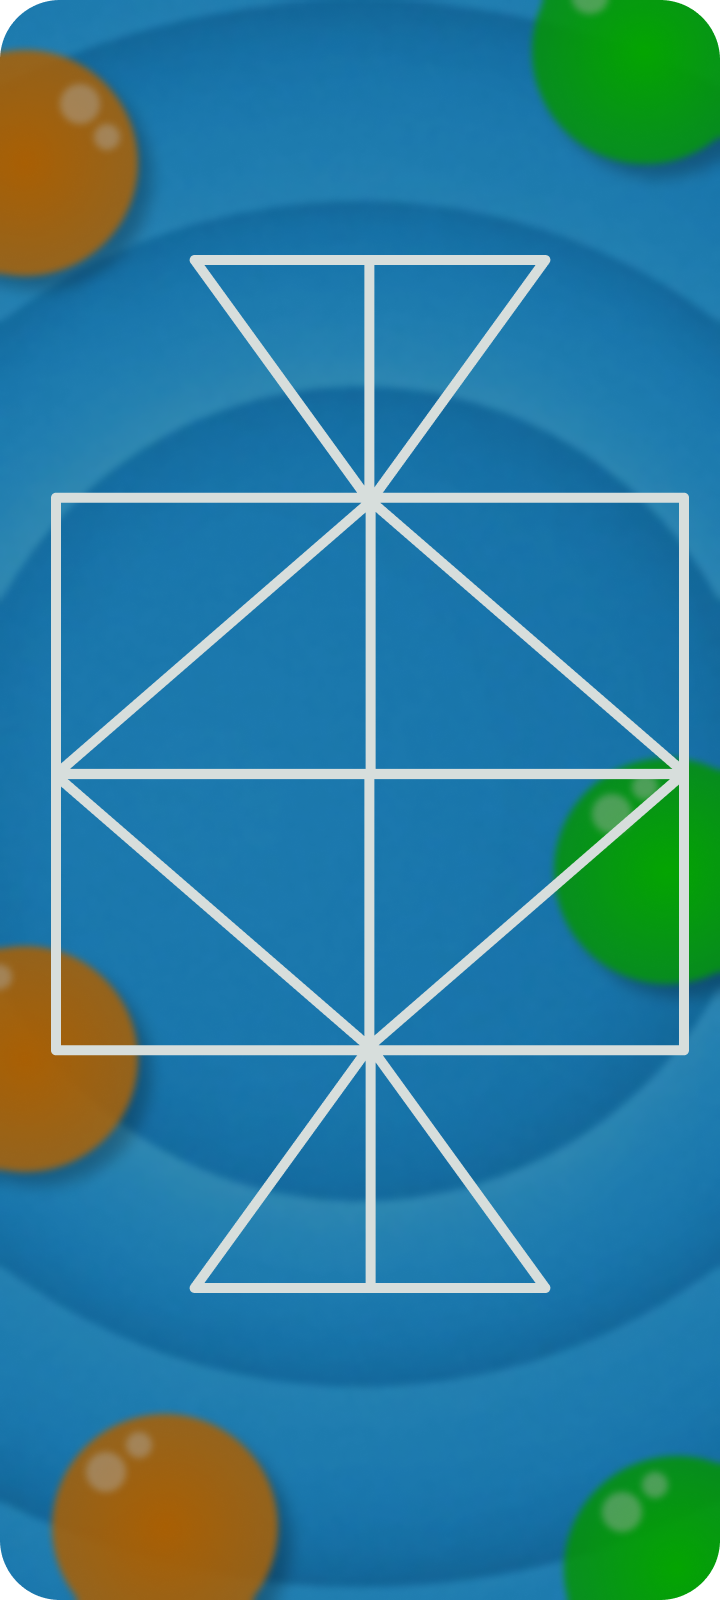
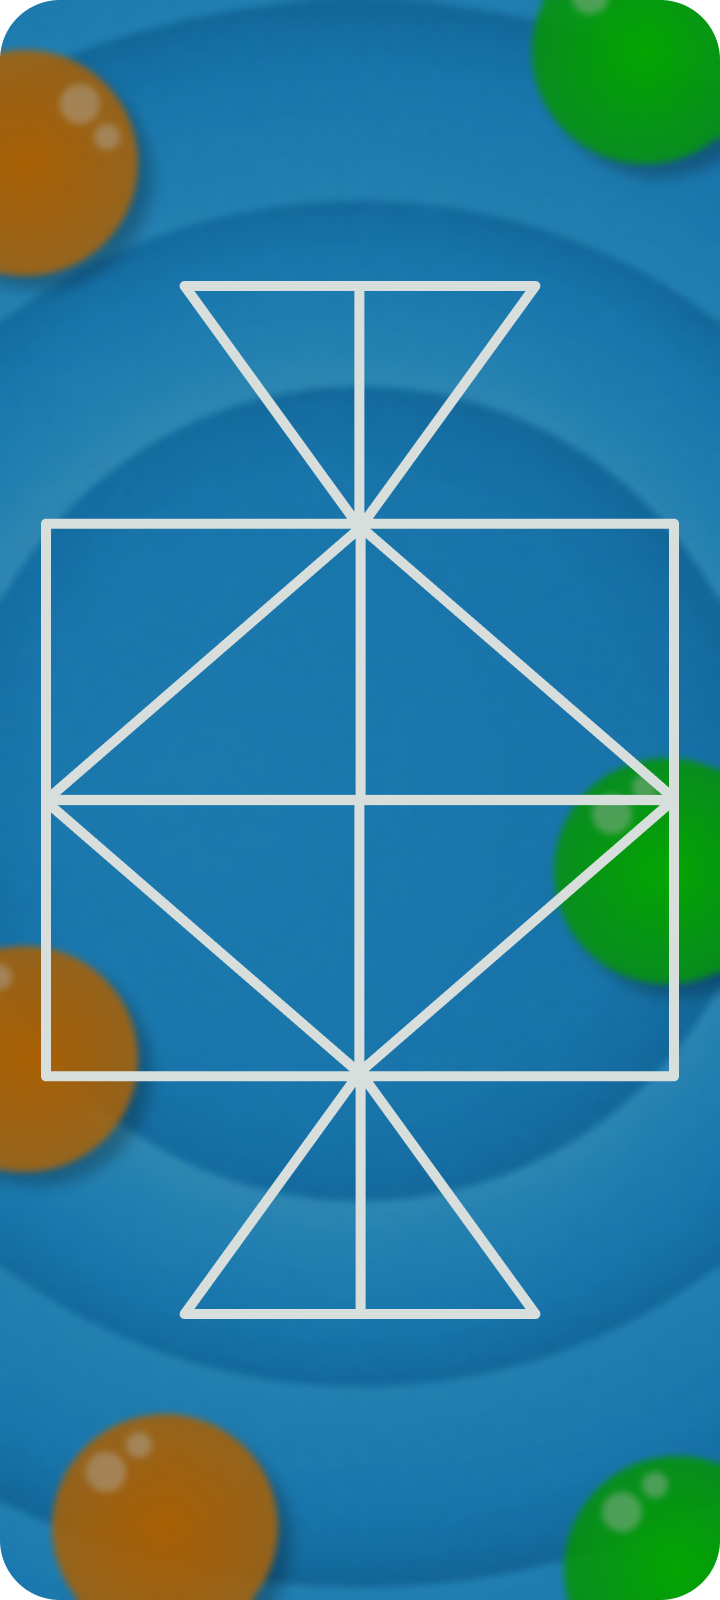
board changes and botMove optimization

Changed region(s): [[0.0306, 0.1562, 0.9778, 0.8438]]

diff --git a/src/assets/Style.ts b/src/assets/Style.ts
@@ -83,104 +83,104 @@ const styles = StyleSheet.create({
         position: 'absolute',
         maxHeight: 20,
         maxWidth: 20,
-        paddingLeft: 85,
-        paddingTop: 22
+        paddingLeft: 75,
+        paddingTop: 25
     },
     p2: {
         position: 'absolute',
-        paddingLeft: 172,
-        paddingTop: 22,
+        paddingLeft: 165,
+        paddingTop: 25,
         maxHeight: 20,
         maxWidth: 20
     },
     p3: {
         position: 'absolute',
-        paddingLeft: 256,
-        paddingTop: 22,
+        paddingLeft: 255,
+        paddingTop: 25,
         maxHeight: 20,
         maxWidth: 20
     },
     p4: {
         position: 'absolute',
-        paddingLeft: 19,
-        paddingTop: 118,
+        paddingLeft: 15,
+        paddingTop: 130,
         maxHeight: 20,
         maxWidth: 20
     },
     p5: {
         position: 'absolute',
-        paddingLeft: 172,
-        paddingTop: 118,
+        paddingLeft: 165,
+        paddingTop: 130,
         maxHeight: 20,
         maxWidth: 20
     },
     p6: {
         position: 'absolute',
-        paddingLeft: 320,
-        paddingTop: 118,
+        paddingLeft: 315,
+        paddingTop: 130,
         maxHeight: 20,
         maxWidth: 20
     },
     p7: {
         position: 'absolute',
-        paddingLeft: 19,
-        paddingTop: 225,
+        paddingLeft: 15,
+        paddingTop: 235,
         maxHeight: 20,
         maxWidth: 20
     },
     p8: {
         position: 'absolute',
-        paddingLeft: 172,
-        paddingTop: 225,
+        paddingLeft: 165,
+        paddingTop: 235,
         maxHeight: 20,
         maxWidth: 20
     },
     p9: {
         position: 'absolute',
-        paddingLeft: 320,
-        paddingTop: 225,
+        paddingLeft: 315,
+        paddingTop: 235,
         maxHeight: 20,
         maxWidth: 20
     },
     p10: {
         position: 'absolute',
-        paddingLeft: 19,
-        paddingTop: 332,
+        paddingLeft: 15,
+        paddingTop: 340,
         maxHeight: 20,
         maxWidth: 20
     },
     p11: {
         position: 'absolute',
-        paddingLeft: 172,
-        paddingTop: 332,
+        paddingLeft: 165,
+        paddingTop: 340,
         maxHeight: 20,
         maxWidth: 20
     },
     p12: {
         position: 'absolute',
-        paddingLeft: 320,
-        paddingTop: 332,
+        paddingLeft: 315,
+        paddingTop: 340,
         maxHeight: 20,
         maxWidth: 20,
     },
     p13: {
         position: 'absolute',
-        paddingLeft: 85,
-        paddingTop: 430,
+        paddingLeft: 75,
+        paddingTop: 435,
         maxHeight: 20,
         maxWidth: 20
     },
     p14: {
         position: 'absolute',
-        paddingLeft: 172,
-        paddingTop: 430,
+        paddingLeft: 165,
+        paddingTop: 435,
         maxHeight: 20,
         maxWidth: 20
     },
     p15: {
         position: 'absolute',
-        paddingLeft: 256,
-        paddingTop: 430,
+        paddingLeft: 255,
+        paddingTop: 435,
         maxHeight: 20,
         maxWidth: 20
     },

diff --git a/src/screen/GameScreen.tsx b/src/screen/GameScreen.tsx
@@ -49,13 +49,27 @@ function getRandomInt(max: number) {
   return Math.floor(Math.random() * max);
 }
 
+function moveSelection(x: point) {
+  var l = 1;
+  var option = x.neighbor;
+  var selected = option[(option.length - l)];
+  while (selected.isOccupied != 'no') {
+    if (option.length - l == 0) {
+      break;
+    }
+    l += 1;
+    selected = option[(option.length - l)];
+  }
+  return selected;
+}
+
 
 function botMove() {
   var moved = bot[getRandomInt(bot.length)];
-  var moveInto = moved.neighbor[getRandomInt(moved.neighbor.length)];
+  var moveInto = moveSelection(moved);
   while (moveInto.isOccupied != 'no') {
-    var n = (moved.neighbor).length;
-    moveInto = moved.neighbor[getRandomInt(n)];
+    moved = bot[getRandomInt(bot.length)];
+    moveInto = moveSelection(moved);
   }
   moved.isOccupied = 'no';
   moveInto.isOccupied = 'bot';
